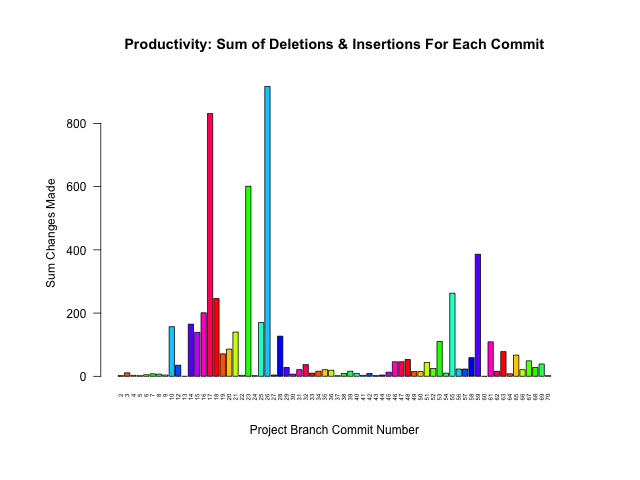
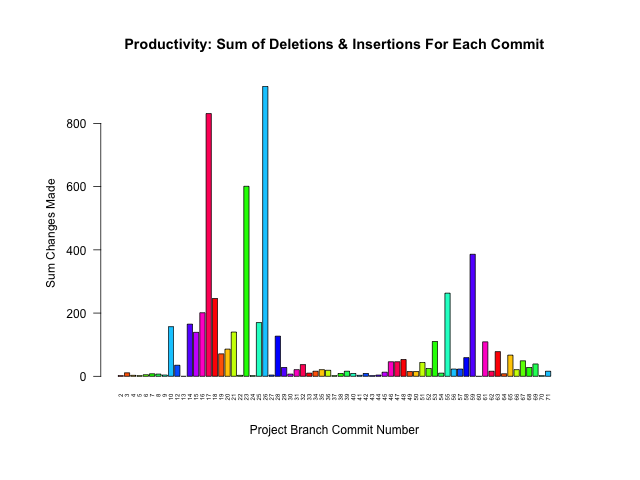
COMMIT #148

Changed region(s): [[0.25, 0.1562, 0.5625, 0.7812], [0.25, 0.5312, 0.875, 0.8438]]

diff --git a/README.md b/README.md
@@ -17,8 +17,8 @@ ProjectName::BranchName.data
 
 Project Name | Last Updated | # Commits | # Branches | Branches Merged
 :---|:---:|:---:|:---:|:---:
-[minishell](https://github.com/pierremigeon/minishell)                                              |  2023-04-30  |  70   |  8  |  75%   (6/8)
-[commit_tracker](https://github.com/pierremigeon/commit_tracker)                                    |  2023-04-30  |  146  |  1  |  100%  (1/1)
+[minishell](https://github.com/pierremigeon/minishell)                                              |  2023-05-01  |  71   |  8  |  75%   (6/8)
+[commit_tracker](https://github.com/pierremigeon/commit_tracker)                                    |  2023-04-30  |  147  |  1  |  100%  (1/1)
 [FASTQ_examiner](https://github.com/pierremigeon/FASTQ_examiner)                                    |  2023-04-24  |  68   |  3  |  67%   (2/3)
 [ft_printf](https://github.com/pierremigeon/ft_printf)                                              |  2023-01-27  |  36   |  2  |  100%  (2/2)
 [test_non-fastforward_merge-push](https://github.com/pierremigeon/test_non-fastforward_merge-push)  |  2023-01-27  |  15   |  2  |  50%   (1/2)
